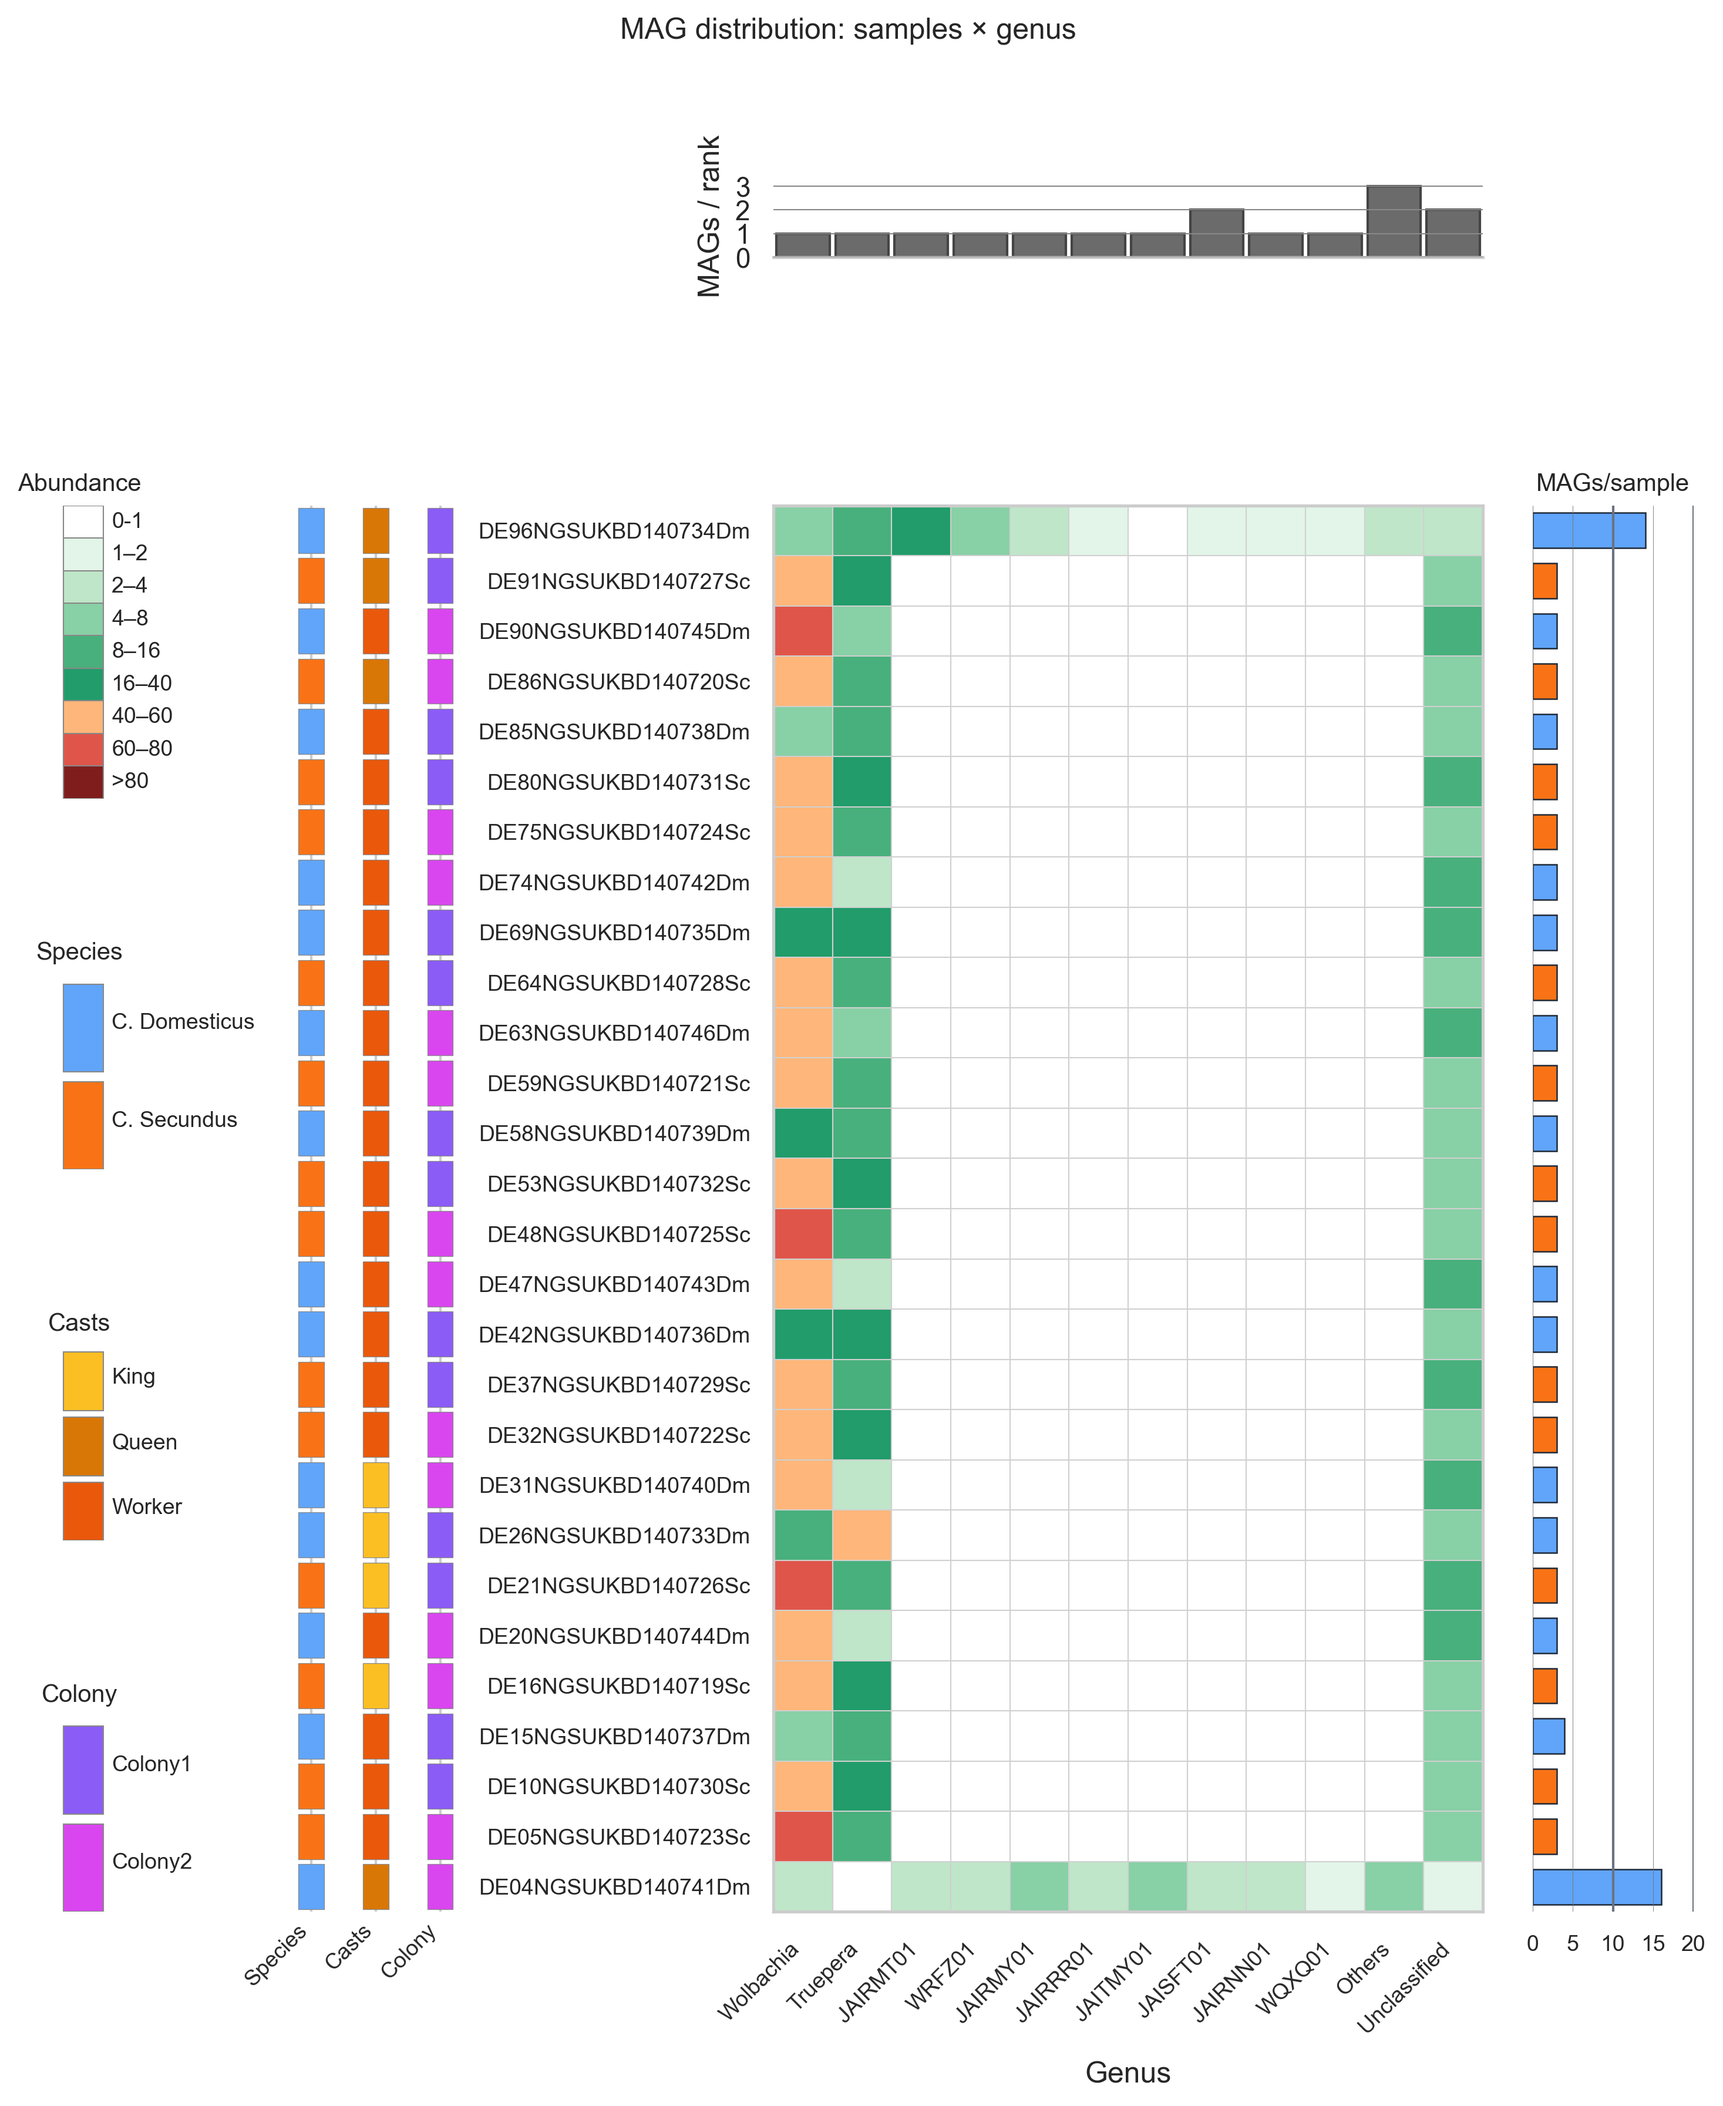
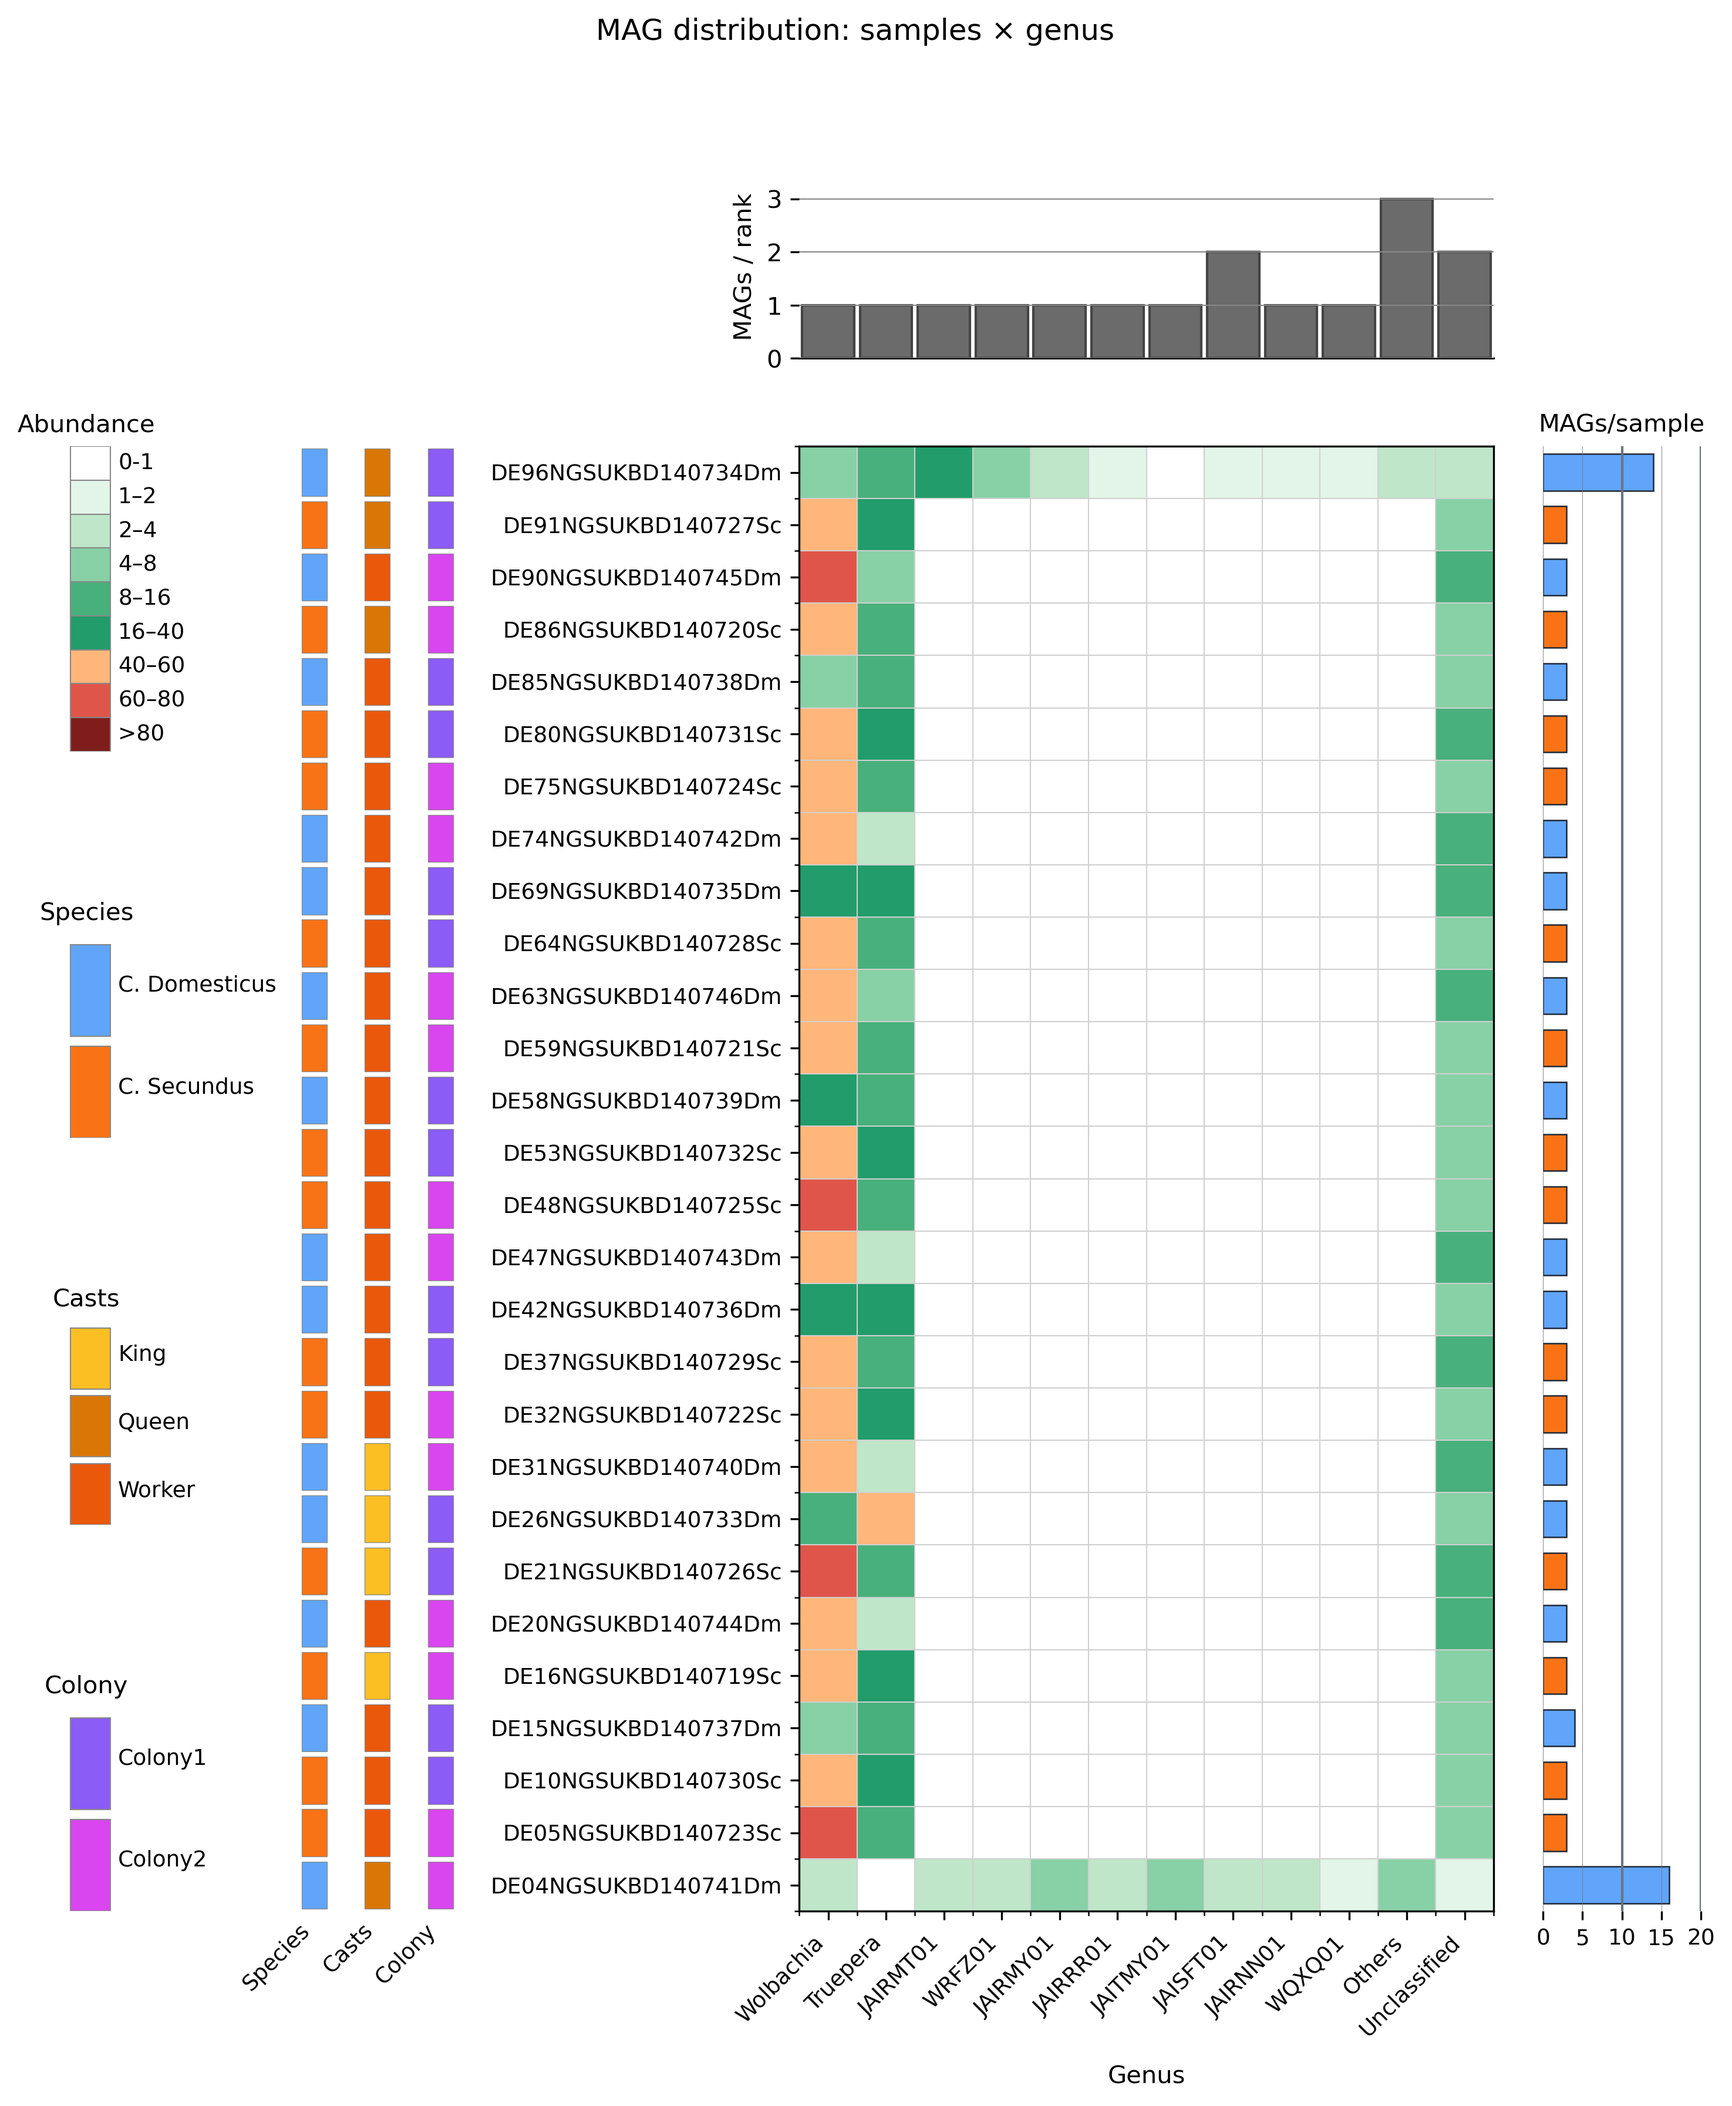
update termite use case

diff --git a/use-cases/README.md b/use-cases/README.md
@@ -9,13 +9,15 @@ so that the example paths resolve correctly.
 If the command is not available, install the package first (['README.md'](../README.md))
 
 # Bash
-## Bee
+## Bee Gut Microbiome
 
 ```bash
 use_case_folder="bee-use-case"
 ```
 
 ### Sample heatmap
+
+* Genus
 
 ```bash
 mags-visualization sample-heatmap \
@@ -30,6 +32,8 @@ mags-visualization sample-heatmap \
   --no_log \
   --top_bar_height 2.0
 ```
+
+* Specis
 
 ```bash
 mags-visualization sample-heatmap \
@@ -247,26 +251,40 @@ mags-visualization taxa-sankey \
   --output out
 ```
 
-## Termite
+## Termite Head Microbiome
 
 ```bash
-use_case_folder="termite-use-case/data"
+use_case_folder="termite-use-case"
 ```
 
 ### Sample heatmap
 
 ```bash
 mags-visualization sample-heatmap \
-  --coverm "$use_case_folder/coverm.tsv" \
-  --gtdb "$use_case_folder/gtdb.tsv" \
-  --metadata "$use_case_folder/metadata.tsv" \
+  --coverm "$use_case_folder/data/coverm.tsv" \
+  --gtdb "$use_case_folder/data/gtdb.tsv" \
+  --metadata "$use_case_folder/data/metadata.tsv" \
   --meta_cols "Species" "Casts" "Colony" \
   --tax_level genus \
   --no_log \
   --spacer_meta 4.5 \
   --top_bar_height 1.5 \
   --hspace 0.08 \
-  --output out
+  --output "$use_case_folder/plots"
+```
+
+```bash
+mags-visualization sample-heatmap \
+  --coverm "$use_case_folder/data/coverm.tsv" \
+  --gtdb "$use_case_folder/data/gtdb.tsv" \
+  --metadata "$use_case_folder/data/metadata.tsv" \
+  --meta_cols "Species" "Casts" "Colony" \
+  --tax_level species \
+  --no_log \
+  --spacer_meta 4.5 \
+  --top_bar_height 1.5 \
+  --hspace 0.08 \
+  --output "$use_case_folder/plots"
 ```
 
 ### dRep cluster plot
